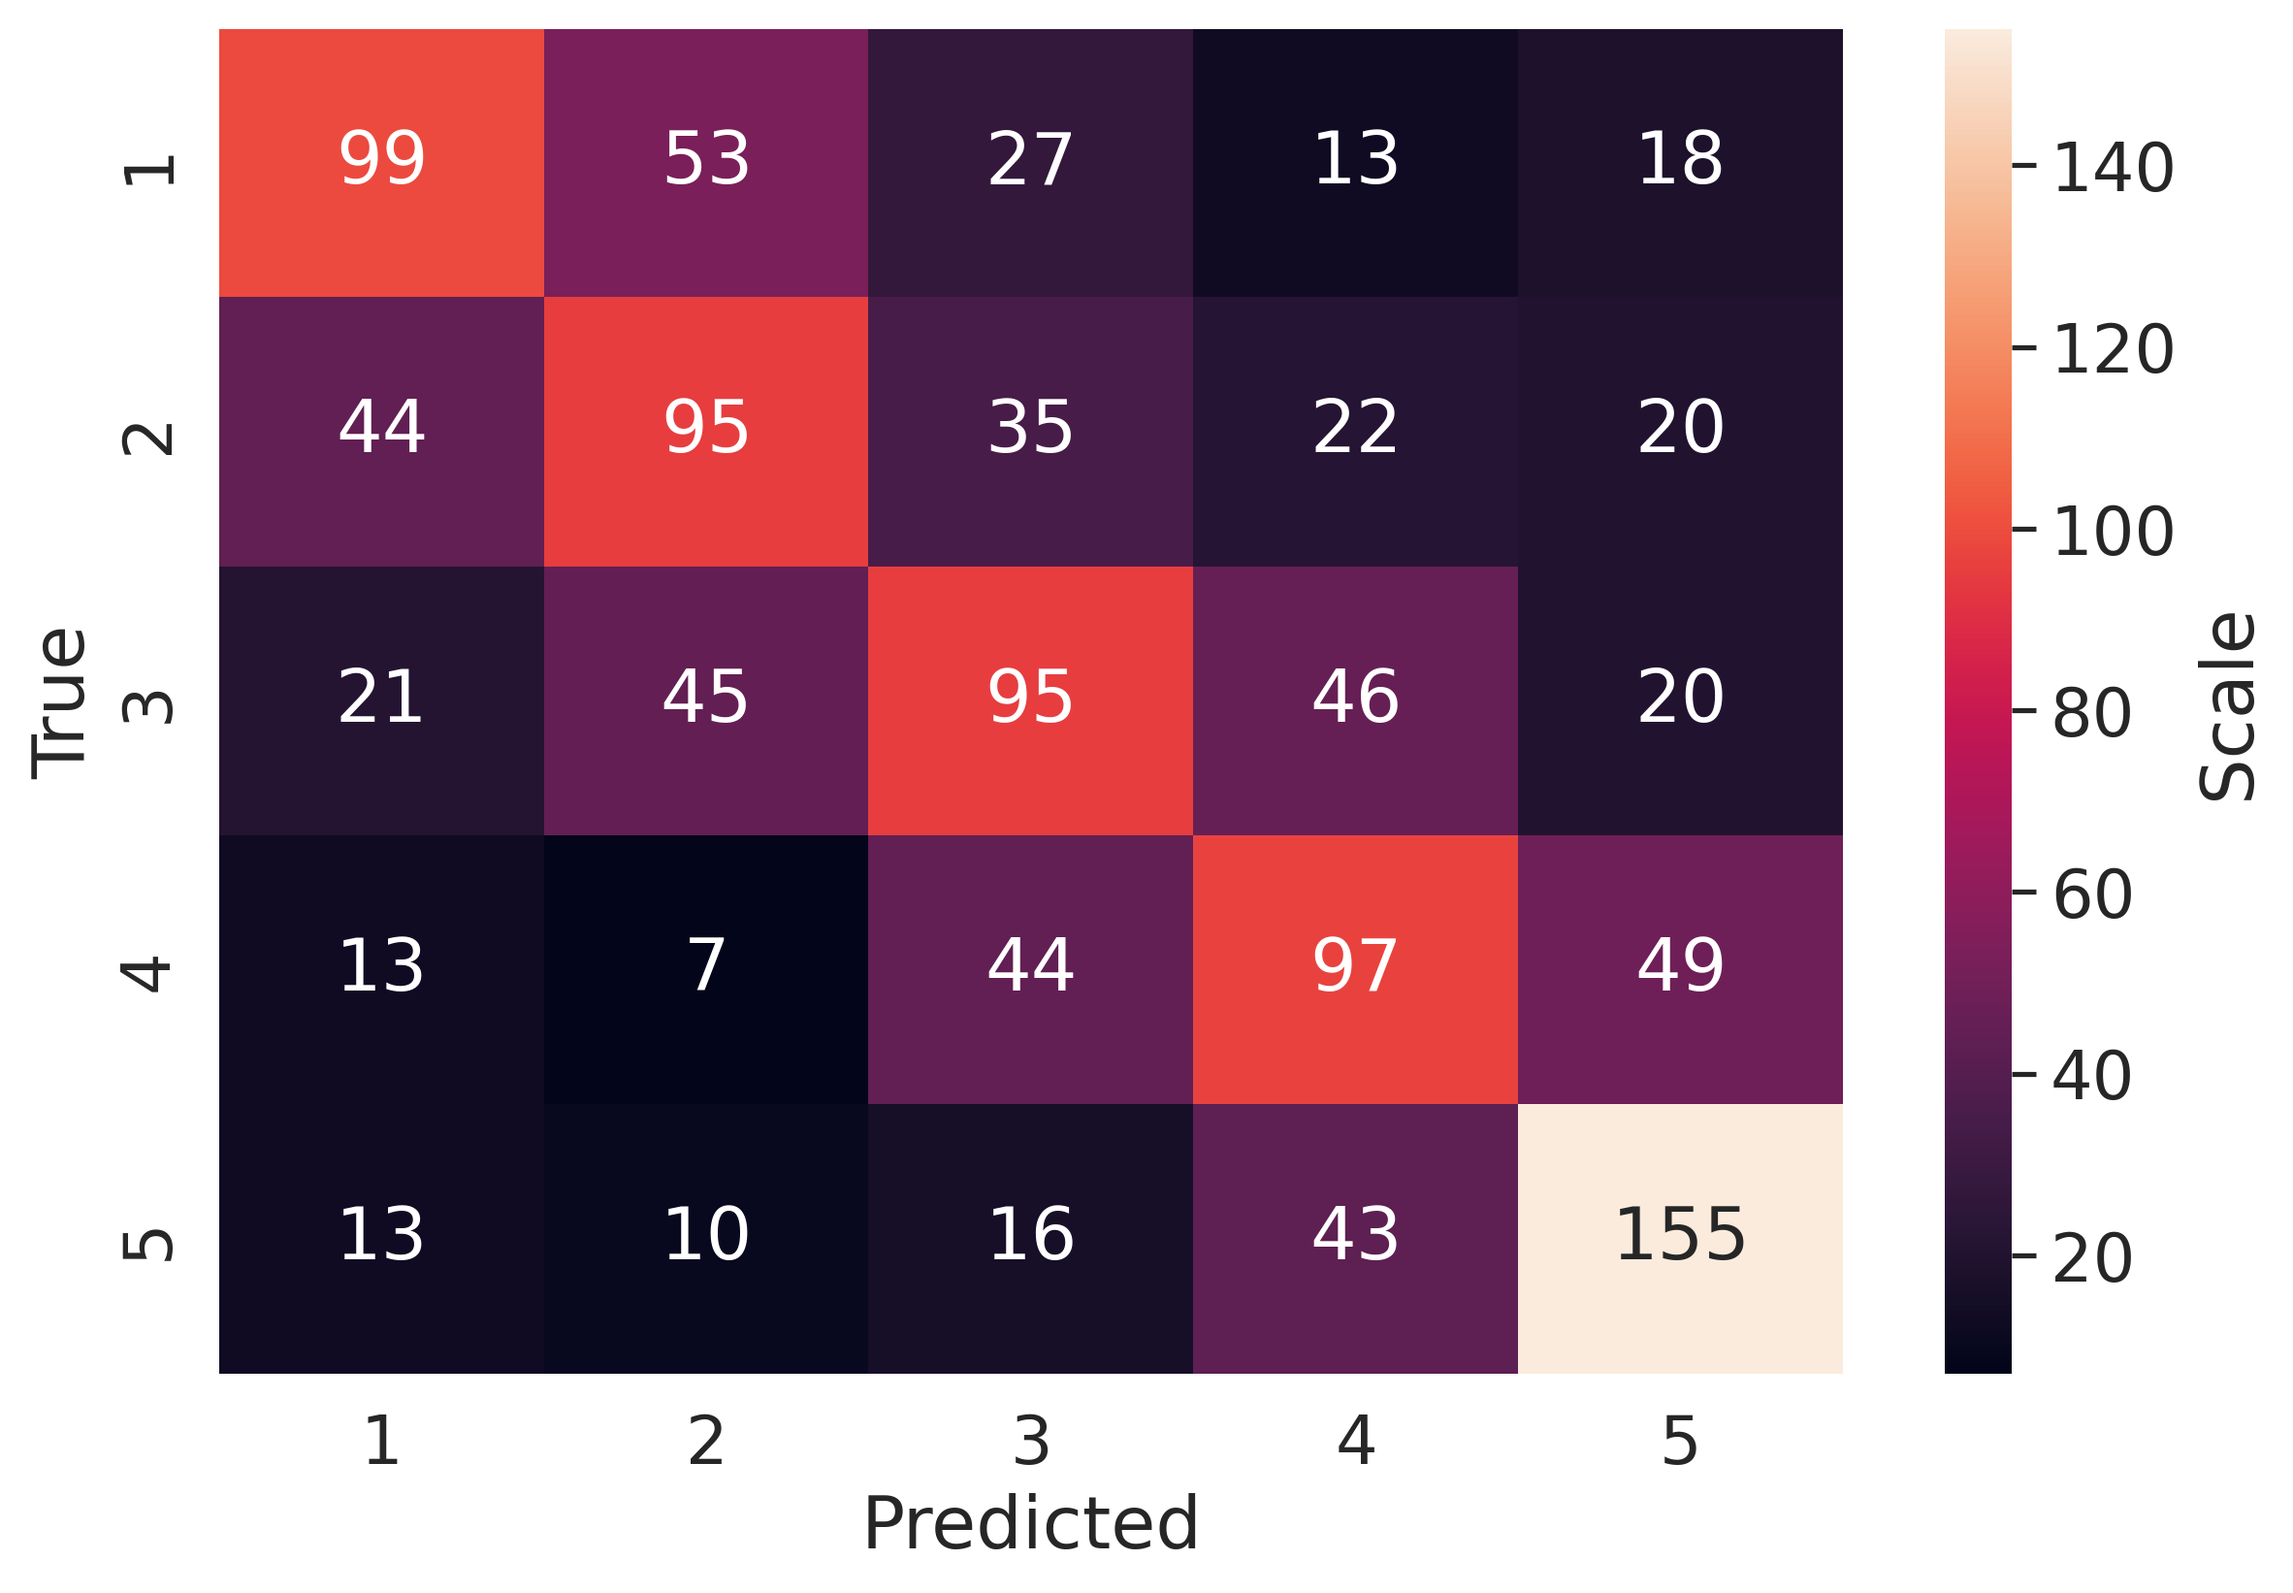
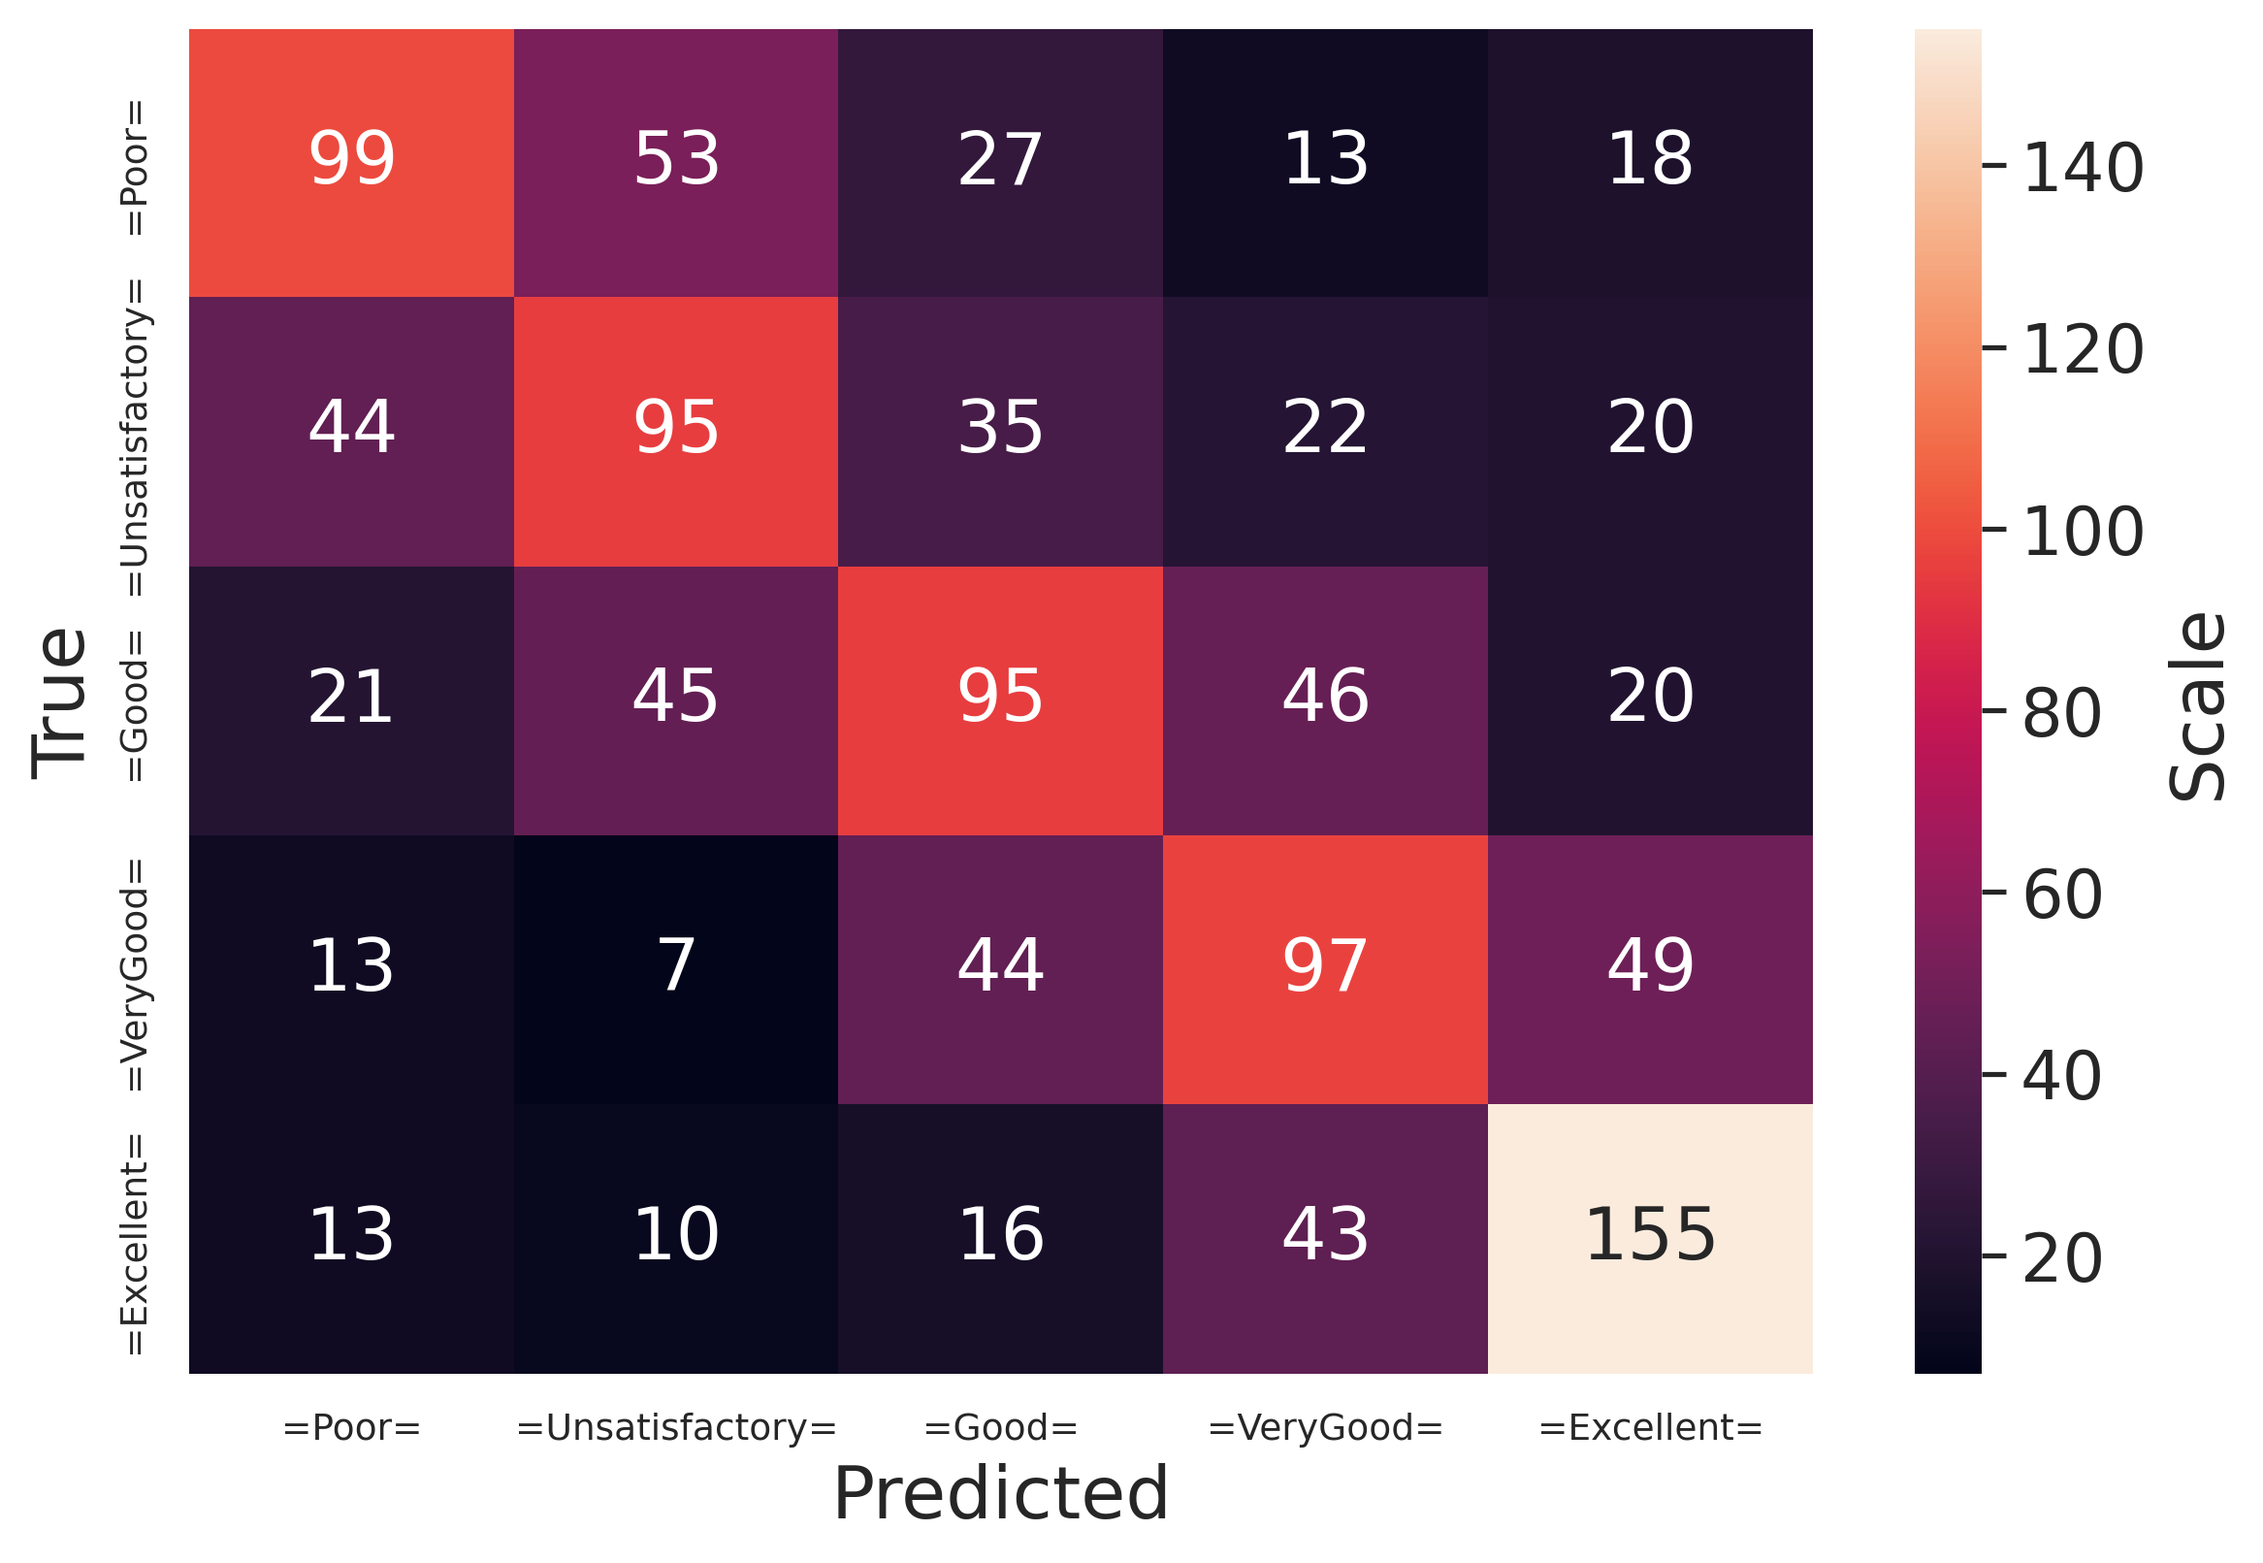
Manual merge with flag to pick between classifiers

diff --git a/reviews.py b/reviews.py
@@ -1,13 +1,14 @@
 import nltk
-from nltk.corpus import stopwords # Not used
-from nltk.stem import PorterStemmer # Not used
 from nltk.stem import LancasterStemmer
 
-from sklearn.model_selection import train_test_split
+from sklearn.model_selection import train_test_split, ShuffleSplit
+from sklearn.tree import DecisionTreeClassifier
+from sklearn.model_selection import KFold, StratifiedKFold, cross_val_score
 from sklearn.naive_bayes import MultinomialNB
-from sklearn.naive_bayes import GaussianNB # Not used
 from sklearn.metrics import accuracy_score
 from sklearn.feature_extraction.text import CountVectorizer
+from sklearn import svm
+from sklearn.model_selection import cross_val_predict
 
 import seaborn
 import matplotlib.pyplot as plt
@@ -24,9 +25,9 @@ def plot_confusion_matrix(data, labels, output_filename):
     seaborn.set(font_scale=1.5)
     ax = seaborn.heatmap(data, annot=True, cbar_kws={'label': 'Scale'}, fmt='g')
  
-    ax.set_xticklabels(labels)
-    ax.set_yticklabels(labels)
- 
+    ax.set_xticklabels(labels, fontdict={'size': '9'})
+    ax.set_yticklabels(labels, fontdict={'size': '9'})
+
     ax.set(ylabel="True", xlabel="Predicted")
  
     plt.savefig(output_filename, bbox_inches='tight', dpi=300)
@@ -121,15 +122,14 @@ def parseArguments():
     return args
     
 
-def main(args):
-    ## NOT in USE #############################
-    porter = PorterStemmer()
-    ###########################################
+def main(args, model):
 
     lancaster = LancasterStemmer()
     ranks = []
     reviews = []
     testReviews = []
+    # define labels
+    labels = ["=Poor=", "=Unsatisfactory=", "=Good=", "=VeryGood=", "=Excellent="]
 
     with open(args.train, "r") as devF:
         for line in devF:
@@ -146,8 +146,12 @@ def main(args):
     for review in reviewsLC:
         reviewsLCstem.append(lancaster.stem(review))
 
-    count_vect = CountVectorizer()
-    count_matrix = count_vect.fit_transform(reviewsLCstem)
+    if model == "NB":
+        count_vect = CountVectorizer()
+        count_matrix = count_vect.fit_transform(reviewsLCstem)
+    elif model == "SVM":
+        count_vect = CountVectorizer()
+        count_matrix = count_vect.fit_transform(reviewsLC)
 
     ## Data for classification
     with open(args.test, "r") as rvF:
@@ -158,41 +162,63 @@ def main(args):
     # Naive Bayes - scikit-learn library
     x = count_matrix
     y = ranks
-    model = MultinomialNB()
-    x_train, x_test, y_train, y_test = train_test_split(x, y, test_size=0.11, random_state=43, shuffle=True)
-    y_pred = model.fit(x_train, y_train).predict(x_test)
-    # for i in range(len(y_pred)):
-    #     if i == len(y_pred)-1:
-    #         print(y_pred[i], end="")
-    #     else:
-    #         print(y_pred[i])
-    # accuracy = accuracy_score(y_test, y_pred)*100
-    # print("Accuracy = " + repr(round(accuracy, 1)))
-    # precision = precision_score(y_test, y_pred, average=None)
-    # print("Precision = " + repr(precision))
-    # recall = recall_score(y_test, y_pred, average=None)
-    # print("Recall = " + repr(recall))
-    # f1score = f1_score(y_test, y_pred, average=None)
-    # print("F1 score = " + repr(f1score))
 
-    ## Classify new Data
-    pred_test = model.predict(count_matrix_test)
-    for i in range(len(pred_test)):
-        if i == len(pred_test)-1:
-            print(pred_test[i], end="")
-        else:
-            print(pred_test[i])
+    if model == "NB":
+        model = MultinomialNB()
+        x_train, x_test, y_train, y_test = train_test_split(x, y, test_size=0.11, random_state=43, shuffle=True)
+        y_pred = model.fit(x_train, y_train).predict(x_test)
+        # for i in range(len(y_pred)):
+        #     if i == len(y_pred)-1:
+        #         print(y_pred[i], end="")
+        #     else:
+        #         print(y_pred[i])
+        # accuracy = accuracy_score(y_test, y_pred)*100
+        # print("Accuracy = " + repr(round(accuracy, 1)))
+        # precision = precision_score(y_test, y_pred, average=None)
+        # print("Precision = " + repr(precision))
+        # recall = recall_score(y_test, y_pred, average=None)
+        # print("Recall = " + repr(recall))
+        # f1score = f1_score(y_test, y_pred, average=None)
+        # print("F1 score = " + repr(f1score))
 
-    # define labels
-    labels = ["=Poor=", "=Unsatisfactory=", "=Good=", "=VeryGood=", "=Excellent="]
-    
-    # create confusion matrix
-    # confusionMatrix = getConfusionMatrix(y_test, y_pred)
-    # plot_confusion_matrix(confusionMatrix, labels, "test.png")
+        ## Classify new Data
+        pred_test = model.predict(count_matrix_test)
+        for i in range(len(pred_test)):
+            if i == len(pred_test)-1:
+                print(pred_test[i], end="")
+            else:
+                print(pred_test[i])
+        
+        # create confusion matrix
+        confusionMatrix = getConfusionMatrix(y_test, y_pred)
+        plot_confusion_matrix(confusionMatrix, labels, "test.png")
+
+    elif model == "SVM":
+        x_train, x_test, y_train, y_test = train_test_split(x, y, test_size=0.28, random_state=40)
+
+        clf = svm.SVC(C=1).fit(x_train, y_train)
+        #clf.score(x_test, y_test)
+
+        scores = cross_val_score(clf, x_test, y_test, cv=5)
+        y_pred = cross_val_predict(clf, x_test, y_test, cv=5)
+
+        # accuracy = accuracy_score(y_test, y_pred)*100
+        # print("Accuracy Score: " + repr(round(accuracy, 1)))
+        pred_test = clf.predict(count_matrix_test)
+        for i in range(len(pred_test)):
+            if i == len(pred_test)-1:
+                print(pred_test[i], end="")
+            else:
+                print(pred_test[i])
+        confusionMatrix = getConfusionMatrix(y_test, y_pred)
+        plot_confusion_matrix(confusionMatrix, labels, "CVwSVM-478.png")  
 
 
 if __name__ == "__main__":
+    ## MODELS ##
+    nbFlag = "NB" # Naive Bayes Classifier
+    svmFlag = "SVM" # Support Vector Machine
     args = parseArguments()
     if args.test and args.train:
-        main(args)
+        main(args, nbFlag)
     pass
